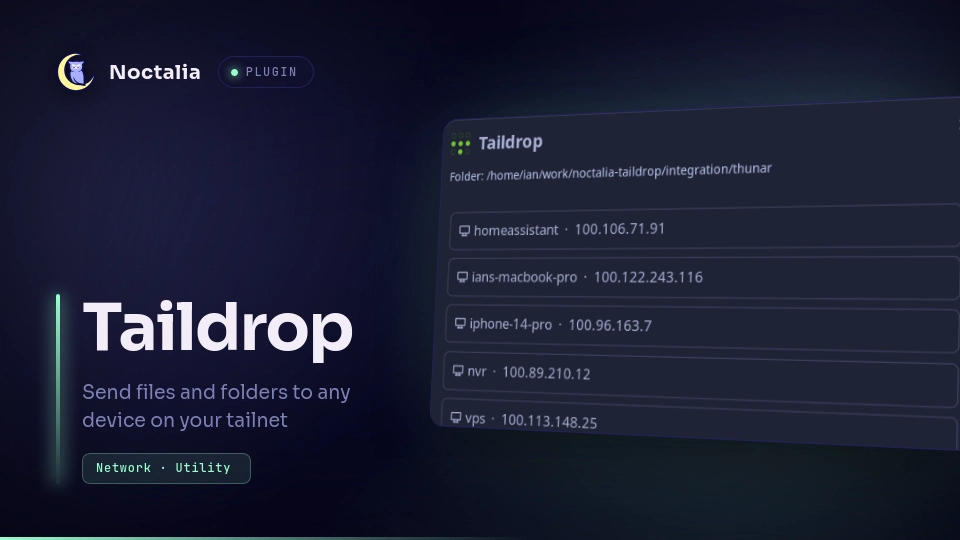
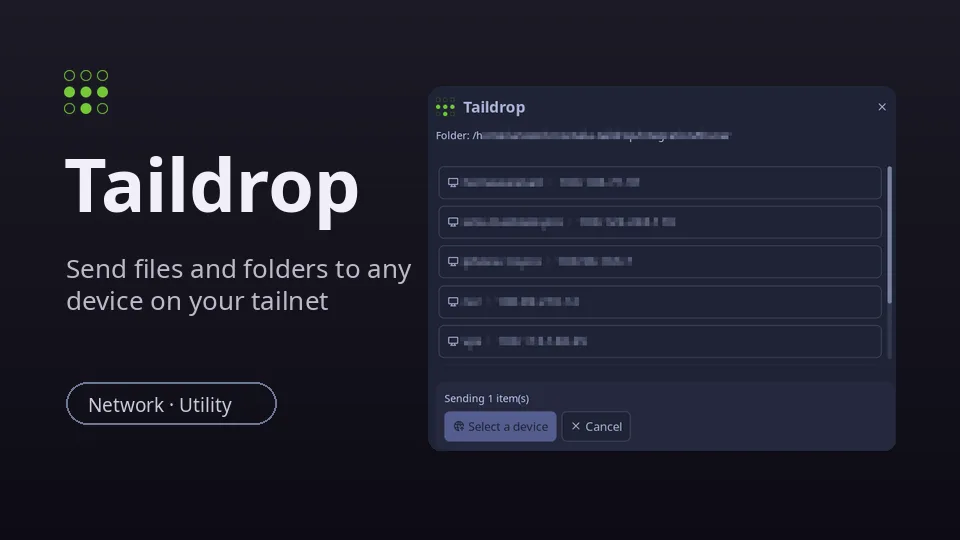
Remove davemhammer references; regenerate PII-free thumbnail
- Drop all 'davemhammer/tailscale' mentions from plugin.toml, the plugin
  README, and the top-level README (this plugin is fully independent; users
  install any Tailscale frontend separately).
- Regenerate plugin/taildrop/thumbnail.webp from a pixelated (names/IPs
  mosaicked, pill borders retained) screenshot so the store card exposes no
  tailnet device names/IPs or the author home path.

diff --git a/README.md b/README.md
@@ -4,8 +4,8 @@
 
 `noctalia-taildrop` is a small, standalone [Noctalia](https://noctalia.dev) plugin. Right-click a
 file, pick a device, confirm, and Tailscale copies it across. It does **not** replace your
-Tailscale frontend — install `davemhammer/tailscale` (or any Tailscale plugin) separately if you
-want the VPN manager / peers / exit-node UI.
+Tailscale frontend — install a Tailscale plugin separately if you want the VPN manager / peers /
+exit-node UI.
 
 It ships a purpose-built **send dialog** — a single Noctalia panel that lists eligible Taildrop
 destinations and requires an explicit confirm before anything leaves your machine.

diff --git a/plugin/taildrop/README.md b/plugin/taildrop/README.md
@@ -20,8 +20,8 @@ Open the send dialog from anywhere with:
 noctalia msg panel-toggle carlocamacho/taildrop:send
 ```
 
-> This plugin is **not** a Tailscale frontend. Install `davemhammer/tailscale` (or any
-> Tailscale plugin) separately if you want the VPN manager / peers / exit-node UI.
+> This plugin is **not** a Tailscale frontend. Install a Tailscale plugin separately if you
+> want the VPN manager / peers / exit-node UI.
 
 ## Requirements
 
